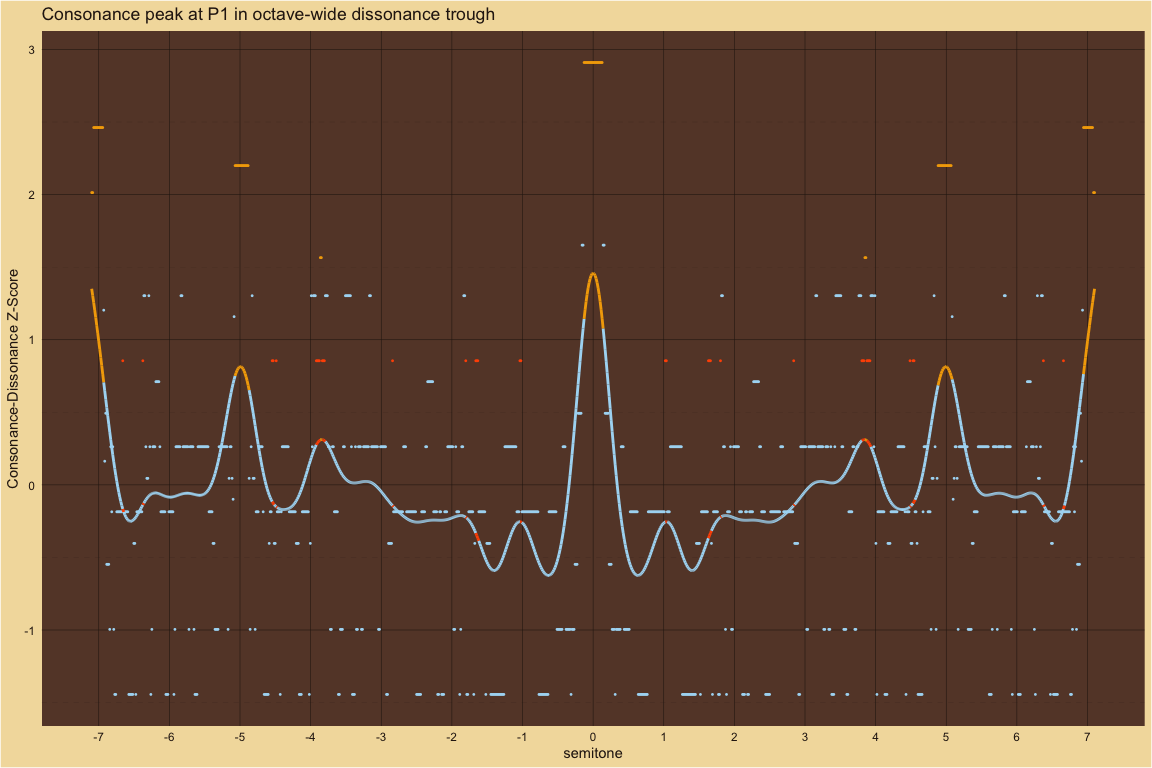
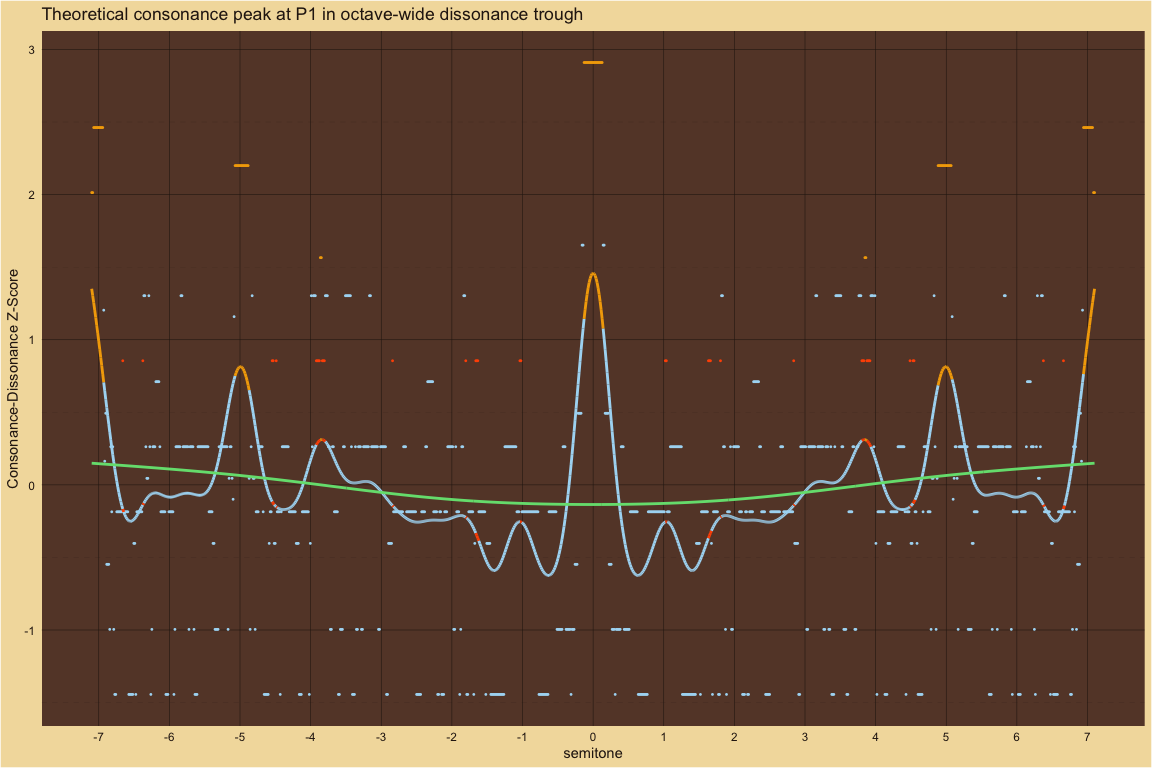
updated readme. added boraoder smoothing to P1 trough

diff --git a/README.md b/README.md
@@ -27,10 +27,9 @@ For 10 harmonics, behavioral results and theoretical predictions agree.
 ### 5Partials ~ Partials: 5
 
 For 5 harmonics, behavioral results and theoretical predictions agree.
-For comparison with the study below with the third partial deleted,
-notice that the m3 peak is only slightly lower than the M3 peak. Near
-M2, the theoretical smoothed curve is relatively lower than the
-theoretical predictions plotted as points.
+For comparison with the study below (5 partils with the third partial
+deleted), notice that the m3 peak is only slightly lower than the M3
+peak.
 
 | detected_pseudo_octave | ignore_amplitudes_below | wavelength_tolerance | frequency_tolerance | smoothing_sigma |
 |:-----------------------|:------------------------|:---------------------|:--------------------|----------------:|
@@ -41,13 +40,9 @@ theoretical predictions plotted as points.
 ### 5PartialsNo3 ~ Partials: 5
 
 For 5 harmonics with the 3rd partial deleted, behavioral results and
-theoretical predictions largely agree. As expected, the m3 peak without
+theoretical predictions mostly agree. As expected, the m3 peak without
 the third partial is now lower than the m3 peak with all 5 harmonics
-while the M3 peak is mostly the same for both sets of harmonics.
-MaMi.CoDi predicts a peak with minor polarity just below the tritone
-that does not exist in the behavioral data. Near M2, the theoretical
-smoothed curve is relatively lower than the theoretical predictions
-plotted as points.
+while the M3 peak is slightly higher without the 3rd partial.
 
 | detected_pseudo_octave | ignore_amplitudes_below | wavelength_tolerance | frequency_tolerance | smoothing_sigma |
 |:-----------------------|:------------------------|:---------------------|:--------------------|----------------:|
@@ -58,9 +53,10 @@ plotted as points.
 ### Pure ~ Partials: 1
 
 For pure tones, the behavioral results and the theoretical predictions
-agree. Only P5 and P8 have pronounced two-sided peaks. The behavioral
-results show subtle variations in consonance height across the 15
-semitones but the overall shape agrees with MaMi.CoDi predictions.
+mostly agree. Only P5 and P8 have pronounced two-sided peaks. The
+behavioral results show subtle variations in consonance height across
+the 15 semitones but the overall peak structure agrees with MaMi.CoDi
+predictions.
 
 | detected_pseudo_octave | ignore_amplitudes_below | wavelength_tolerance | frequency_tolerance | smoothing_sigma |
 |:-----------------------|:------------------------|:---------------------|:--------------------|----------------:|
@@ -71,11 +67,8 @@ semitones but the overall shape agrees with MaMi.CoDi predictions.
 ### Stretched ~ Partials: 10
 
 For stretched harmonics, behavioral results and theoretical predictions
-mostly agree. MaMi.CoDi predicts a relatively higher consonance peak
-just above P4 than the behavioral results. MaMi.Codi predicts peaks with
-minor polarity just above m3 and m7 that do not exist in the behavioral
-results. Near M2, the theoretical smoothed curve is relatively lower
-than the theoretical predictions plotted as points.
+mostly agree. MaMi.Codi predicts peaks with minor polarity just above m3
+and m7 that do not exist in the behavioral results.
 
 | detected_pseudo_octave | ignore_amplitudes_below | wavelength_tolerance | frequency_tolerance | smoothing_sigma |
 |:-----------------------|:------------------------|:---------------------|:--------------------|----------------:|
@@ -86,11 +79,7 @@ than the theoretical predictions plotted as points.
 ### Compressed ~ Partials: 10
 
 For compressed harmonics, the pronounced behavioral peaks mostly agree
-with the theoretical peaks. However, for the behavioral peak between the
-14th and 15th semitones, the MaMi.CoDi model predicts a trough. For some
-of the non-peak dyads there are differences. MaMi.Codi predicts peaks
-with mostly minor polarity just above m2, at m3, just above P4 and
-halfway between M6 and m7 that do not exist in the behavioral results.
+with the theoretical peaks.
 
 | detected_pseudo_octave | ignore_amplitudes_below | wavelength_tolerance | frequency_tolerance | smoothing_sigma |
 |:-----------------------|:------------------------|:---------------------|:--------------------|----------------:|
@@ -101,11 +90,10 @@ halfway between M6 and m7 that do not exist in the behavioral results.
 ### Bonang ~ Partials: 4
 
 For gamalan dyads with a harmonic bass pitch and bonang upper pitch,
-behavioral results and theoretical predictions mostly agree. MaMi.CoDi’s
-predicted peak at P5 is relatively higher than the behavioral results.
-The predicted peak at P4 is shifted slightly lower than the behavioral
-results. MaMi.CoDi predicts a peak between m3 and M3 that does not
-appear in the behavioral results.
+behavioral results and theoretical predictions mostly agree. MaMi.CoDi
+predicts a dissonance trough with minor polarity at P4 that is not in
+the behavioral results. MaMi.CoDi predicts P5 to have minor polarity and
+be relatively higher than the behavioral results.
 
 | detected_pseudo_octave | ignore_amplitudes_below | wavelength_tolerance | frequency_tolerance | smoothing_sigma |
 |:-----------------------|:------------------------|:---------------------|:--------------------|----------------:|
@@ -158,7 +146,11 @@ Secondary maximums occur at the Pythagorean third and grave major sixth.
 Those secondary peaks are also surrounded by dissonance troughs. There
 are also tertiary troughs near the ET intervals.  
 
-##### Consonance peak at P1 in octave-wide dissonance trough
+### Theoretical consonance peak at P1 in octave-wide dissonance trough
+
+| multicolored_line_sigma | green_line_sigma | pseudo_octave | wavelength_tolerance | frequency_tolerance |
+|------------------------:|-----------------:|:--------------|:---------------------|:--------------------|
+|                     0.2 |                2 | 2             | 0.15                 | 0.075               |
 
 ![](man/figures/README-unnamed-chunk-15-1.png)<!-- -->
 
@@ -169,8 +161,13 @@ neighbors on both sides, M7 and m2. Consonance increases with each
 semitone step out of the trough: downward from M7 to P4 below and upward
 from m2 to P5 above.  
 
-That is, at the resolution of an octave, the tonic pitch is the maximum
-consonance peak in the center of a dissonance trough.  
+The green line in the plot above was generated using a smoothing sigma
+an order of magnitude broader than the default soothing sigma, 2.0
+versus 0.2. At the broader resolution, the green line highlights the
+dissonance trough and ignore the consonance peak at P1.
+
+That is, at the resolution of an octave, MaMi.CoDi predicts a global
+maximum consonance peak in the center of a smoothed dissonance trough.  
 
 At other resolutions, for example stringed instruments without frets,
 the nearest playable neighbors to P1 are not necessarily dissonant.
